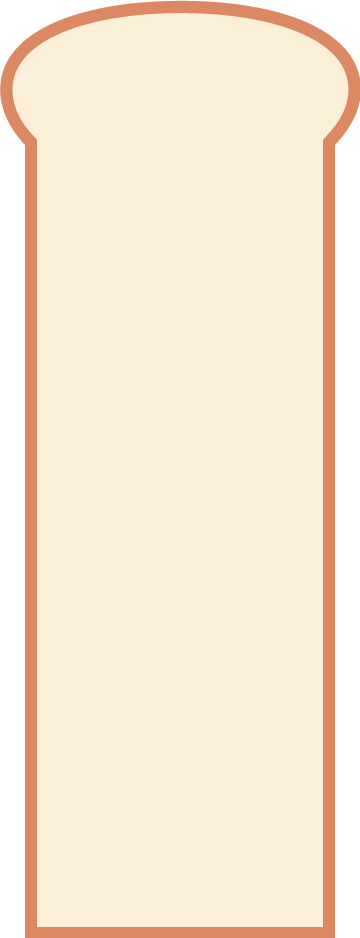
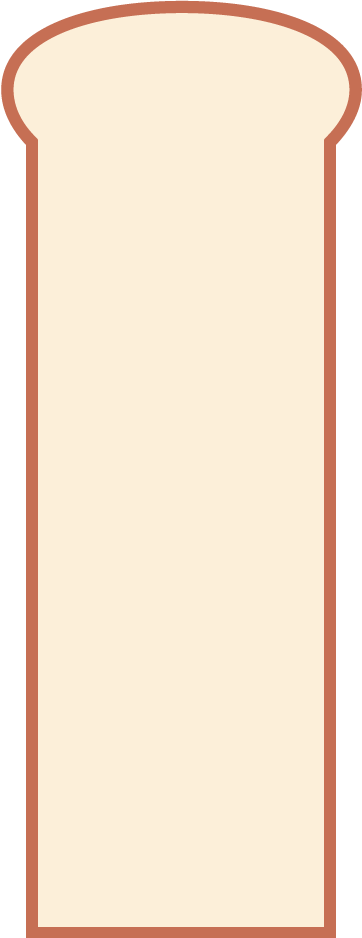
daisy genius

Changed region(s): [[0.0, 0.0, 1.0, 1.0]]

diff --git a/index.html b/index.html
@@ -14,7 +14,7 @@
         }
 
         .title {
-            color: rgb(204, 128, 98);
+            color: rgb(194, 113, 81);
             /* background-color: rgb(255, 107, 188); 
             padding: 4px 14px;
             border-radius: 8px;*/
@@ -54,7 +54,7 @@
     <h1 class="title">⭑2023⭑</h1>
     <p class="msg">BUCKET SANDWICH</p>
     <div class="row flex-row wrap">
-        <div class="bucket img1 center">코딩 아무거나 배워보기</div>
+        <div class="bucket img1 center done">코딩 아무거나 배워보기</div>
         <div class="bucket img2 center">운동 4개월 유지</div>
         <div class="bucket img3 center">영어회화 수업듣기</div>
         <div class="bucket img4 center">책 5권 읽기</div>

diff --git a/custom.css b/custom.css
@@ -66,20 +66,21 @@ html {
 }
 .done::after {    
     content: "";
-    width: 70%;
-    height: 70%;
-    background-image: url("completed-stamp-2.png");
-    background-size: cover;
+    width: 110%;
+    height: 110%;
+    background-image: url("sandwich/sauce.png");
+    background-size: contain;
+    background-repeat: no-repeat;
     background-position: center;
     position: absolute;
-    top: 15%;
+    top: -5%;
 }
 .wrap {
     flex-wrap: wrap;
 }
 .msg {
     margin: -60px 0 20px;
-    color: rgba(236, 179, 126, 0.863);
+    color: rgba(226, 161, 100, 0.863);
     position: sticky;
     top: 100px
 }
